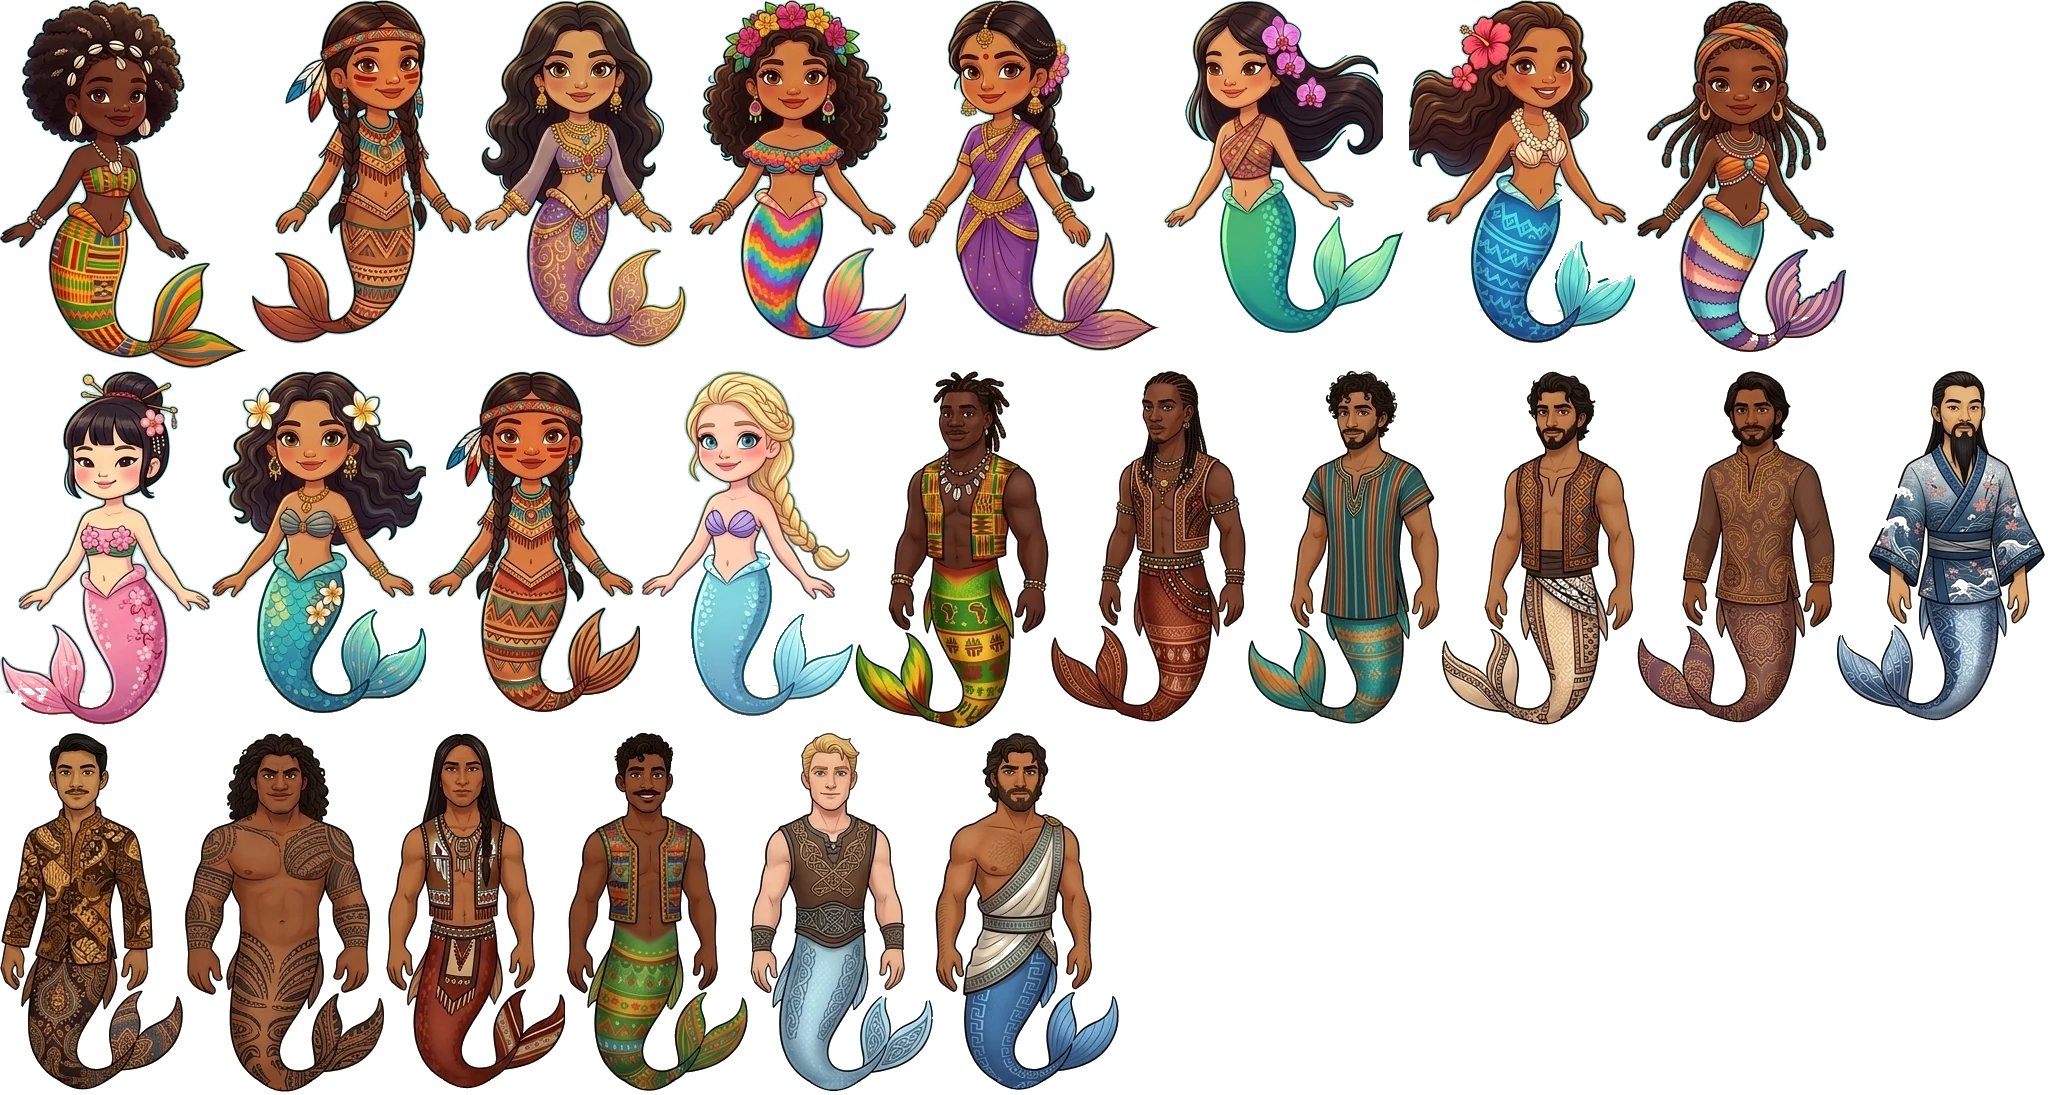
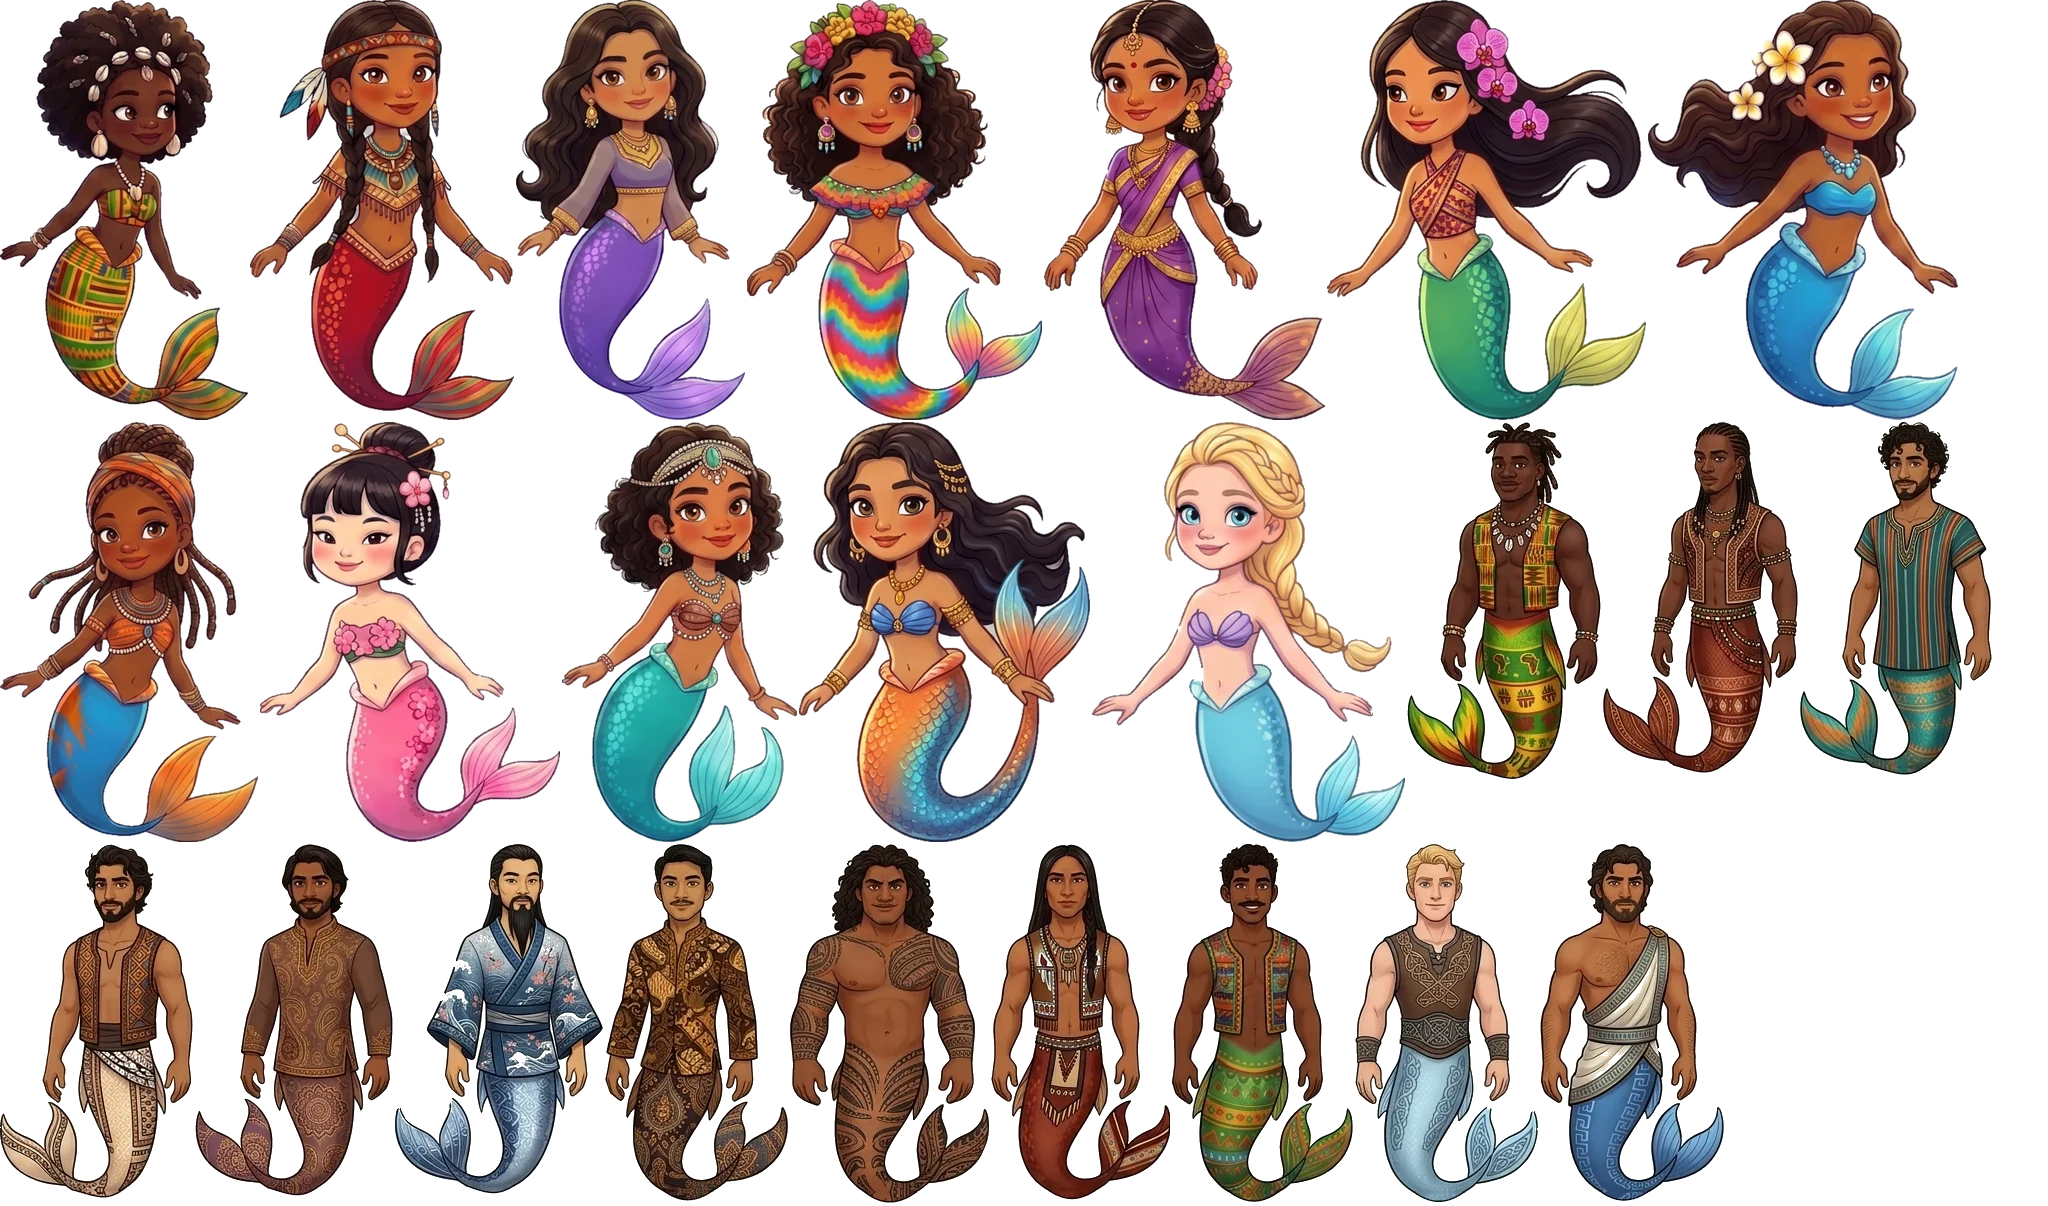
Replace the Tidesong mermaids with the new art
The new cut-outs have clean edges, without the pale rim the old ones had.

diff --git a/arcade/js/tidesong/cast.js b/arcade/js/tidesong/cast.js
@@ -1,21 +1,21 @@
-// The 24 playable merfolk, cut from FantasyCreatures/Mermaidgrid.jpeg and
-// mermengrid.jpeg (see castAtlas.js). Names are generic sea names. Each
+// The 24 playable merfolk: mermaids cut from FantasyCreatures/mermaidsheets,
+// mermen from mermengrid.jpeg (see castAtlas.js). Names are generic sea names. Each
 // entry also has rough colours for the small swimming sprite, and `long`
 // for long hair that streams behind it.
 import { castAtlas } from "./castAtlas.js";
 
 export const mermaids = [
   { hair: "#2a1a12", long: false, name: "Cowrie", skin: "#5a3426", tail: "#c8902a", top: "#3c9a3a" },
-  { hair: "#2a1a14", long: true, name: "Feather", skin: "#b0704a", tail: "#b8743a", top: "#c87a3a" },
-  { hair: "#2a1c18", long: true, name: "Violet", skin: "#c48a62", tail: "#9a6ab0", top: "#a08ac0" },
+  { hair: "#2a1a14", long: true, name: "Feather", skin: "#b0704a", tail: "#b02a30", top: "#c08a50" },
+  { hair: "#2a1c18", long: true, name: "Violet", skin: "#c48a62", tail: "#8a5ad0", top: "#9a90b0" },
   { hair: "#2a1a12", long: true, name: "Rainbow", skin: "#b07850", tail: "#e05a6a", top: "#e8703a" },
   { hair: "#1e1614", long: true, name: "Lotus", skin: "#b07a52", tail: "#8a4aa8", top: "#8a4aa8" },
   { hair: "#1e1614", long: true, name: "Orchid", skin: "#d09a70", tail: "#2fa070", top: "#b06a5a" },
-  { hair: "#3a2418", long: true, name: "Hibiscus", skin: "#b8805a", tail: "#2a7ac8", top: "#f0e0c8" },
-  { hair: "#3a2a1e", long: true, name: "Sunfin", skin: "#6a3e2a", tail: "#8a7ac0", top: "#d0782a" },
+  { hair: "#3a2418", long: true, name: "Hibiscus", skin: "#b8805a", tail: "#3a90d8", top: "#3a8ad8" },
+  { hair: "#3a2a1e", long: true, name: "Sunfin", skin: "#6a3e2a", tail: "#2a80c8", top: "#d0782a" },
   { hair: "#1a1418", long: false, name: "Blossom", skin: "#f6dcc8", tail: "#f08ab0", top: "#f08ab0" },
-  { hair: "#2a1c18", long: true, name: "Lagoon", skin: "#b8805a", tail: "#2aa8a8", top: "#9aa0a8" },
-  { hair: "#2a1a14", long: true, name: "Ember", skin: "#b0704a", tail: "#b85a2a", top: "#c87a3a" },
+  { hair: "#2a1c18", long: true, name: "Lagoon", skin: "#b8805a", tail: "#2ab0b0", top: "#a0603a" },
+  { hair: "#2a1a14", long: true, name: "Ember", skin: "#b0704a", tail: "#e8803a", top: "#3a6ac8" },
   { hair: "#e8cc88", long: true, name: "Pearl", skin: "#f8dcc8", tail: "#8ac8e8", top: "#b8a0e0" },
 ];
 
@@ -87,10 +87,10 @@ export function drawCast(ctx, group, index, x, y, w, h) {
 }
 
 // The face centre, as fractions of the box: heads sit at the top middle of
-// every figure, mermaids' a little larger.
+// every figure; the mermaids' pictures leave more room above the face.
 export function castFace(group, index, w, h) {
   const f = castFit(group, index, w, h);
-  const down = group === "mermen" ? 0.085 : 0.12;
+  const down = group === "mermen" ? 0.085 : 0.19;
   // A finished fin makes some images wider on one side; the fifth number
   // in the atlas is then where the figure's middle really is.
   const middle = f.r[4] ?? f.r[2] / 2;

diff --git a/arcade/js/tidesong/castAtlas.js b/arcade/js/tidesong/castAtlas.js
@@ -1,6 +1,6 @@
-// Generated from FantasyCreatures/Mermaidgrid.jpeg and mermengrid.jpeg:
-// each character's rectangle [x, y, w, h] in merfolk-cast.webp, in grid
-// order (top row left to right, then the bottom row), plus the x of the
-// figure's middle when it is not the middle of the rectangle. Do not edit
+// Generated from FantasyCreatures/mermaidsheets and mermengrid.jpeg:
+// each character's rectangle [x, y, w, h] in merfolk-cast.webp, in cast
+// order (see cast.js), plus the x of the figure's middle (the face, for
+// the HUD crop) when it is not the middle of the rectangle. Do not edit
 // by hand.
-export const castAtlas = {"mermaids":[[0,0,250,369,107.0],[252,0,220,344],[474,0,213,348],[689,0,217,349],[908,0,254,351,106.0],[1164,0,243,333,111.0],[1409,0,226,343],[1637,0,209,352],[0,371,210,354],[212,371,214,342],[428,371,212,341],[642,371,211,345]],"mermen":[[855,371,194,360],[1051,371,195,354],[1248,371,192,356],[1442,371,193,357],[1637,371,198,355],[1837,371,208,353],[0,733,183,360],[185,733,199,362],[386,733,179,359],[567,733,181,361],[750,733,183,361],[935,733,184,360]]};
+export const castAtlas = {"mermaids":[[0,0,248,420,125.4],[250,0,264,420,130.9],[516,0,229,420,109.4],[747,0,295,420,122.5],[1044,0,281,420,113.2],[1327,0,319,420,116.1],[1648,0,310,420,184.3],[0,422,258,420,142.8],[260,422,300,420,119.6],[562,422,235,420,132.4],[799,422,291,420,100.0],[1092,422,313,420,142.4]],"mermen":[[1407,422,194,360],[1603,422,195,354],[1800,422,192,356],[0,844,193,357],[195,844,198,355],[395,844,208,353],[605,844,183,360],[790,844,199,362],[991,844,179,359],[1172,844,181,361],[1355,844,183,361],[1540,844,184,360]]};
